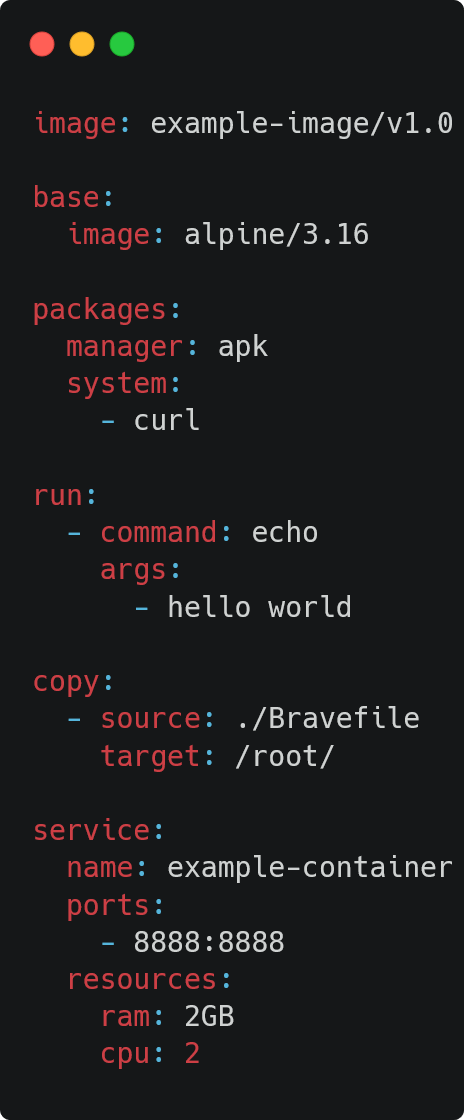
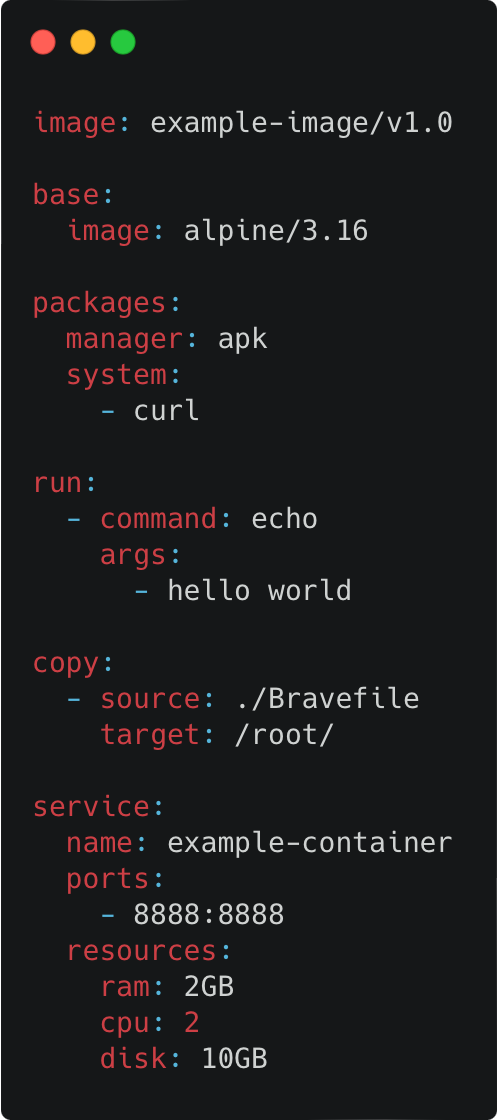
Update `brave template` and docs to show disk limits

diff --git a/shared/strings.go b/shared/strings.go
@@ -27,6 +27,7 @@ service:
   resources:
     ram: 2GB
     cpu: 2
+    disk: 10GB
 `
 
 // REINIT ..

diff --git a/README.md b/README.md
@@ -15,7 +15,7 @@ Bravetools provides a simple and consistent interface to declare, build, and dep
 The steps to build and deploy an image are configured using a [Bravefile](https://bravetools.github.io/bravetools/docs/bravefile/).  
 View [sample Bravefiles](https://github.com/beringresearch/bravefiles/) on GitHub to explore common use cases.
 
-<img src="docs/assets/bravefile-template.png" alt="template" width="200">
+<img src="docs/assets/bravefile-template.png" alt="template" width="220">
 
 ## Build images
 Build new images or layer existing ones using `brave build`  
@@ -108,7 +108,7 @@ service:
   resources:
     ram: 2GB
     cpu: 2
-
+    disk: 10GB
 ```
 
 Create an image using the Bravefile
